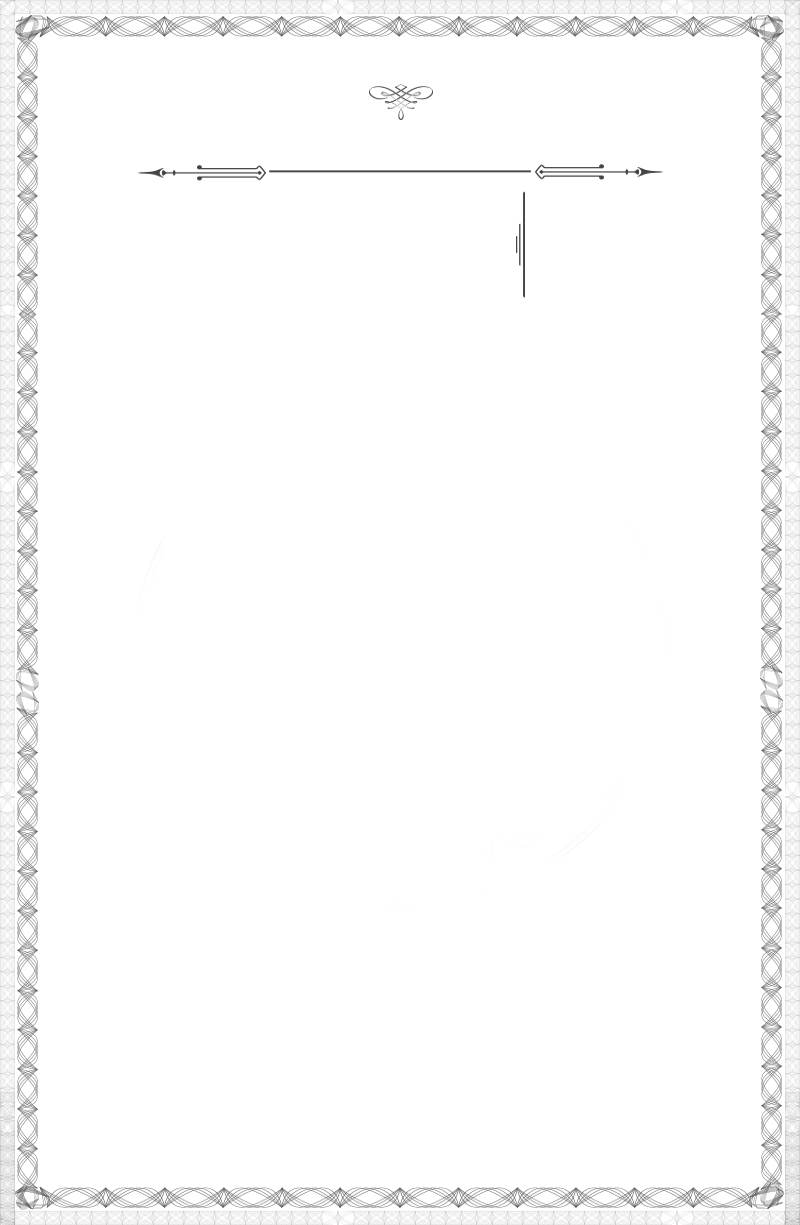
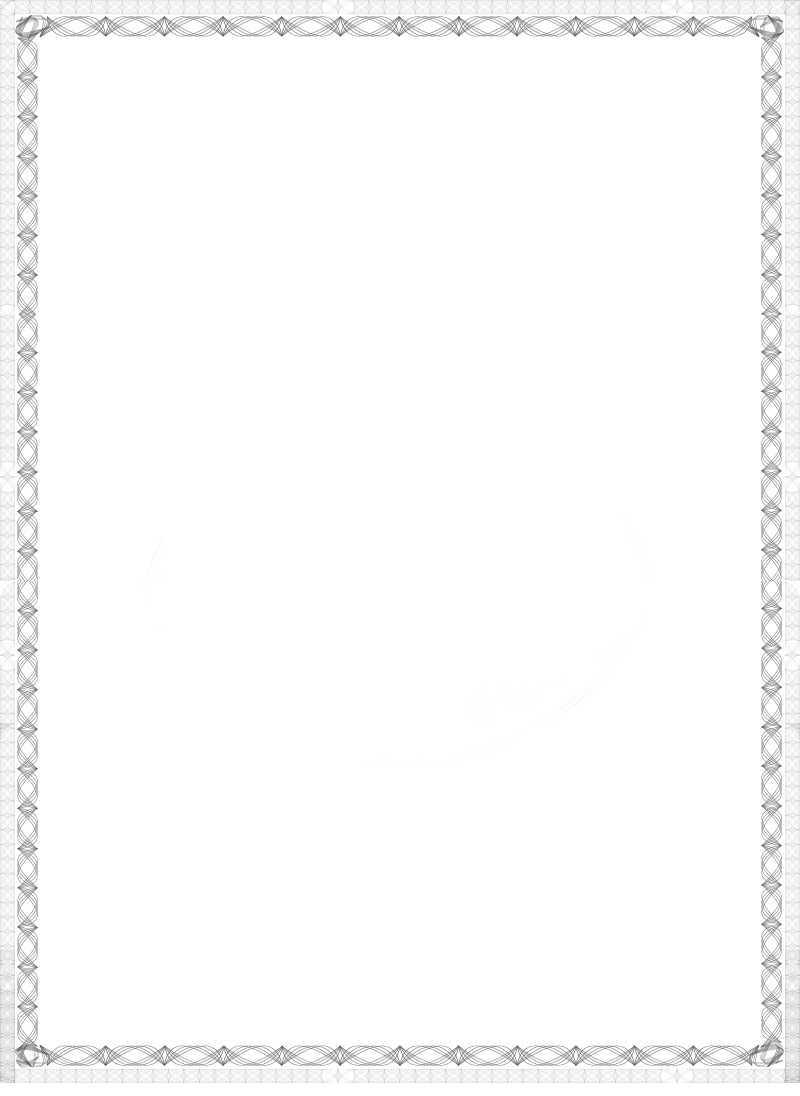
result report modify by Kashif

diff --git a/markssheetcontent/result.css b/markssheetcontent/result.css
@@ -26,16 +26,34 @@ img.result-bg{
     margin:0;
     z-index:1;
 }
-
+.wraperResult hr{
+    background: #02adef;
+    border: 0px;
+    height: 1px;
+}
+.hdr-result h2{
+    font-family: "Times New Roman", Times, serif;
+    margin: 0;
+    font-weight: bold;
+    font-size: 1.5em;
+    border:0px;
+    padding:0px;
+    margin:0px;
+}
+.hdr-result h4{
+    padding:0px;
+    margin:0px;
+}
 
 .resHdr{
     width:660px;
     height:138px;
-    padding:53px 0 0;
+    padding:53px 0 70px  0;
     margin:0 auto;
     /*background:url(../images/reshdr-bg.png) no-repeat center bottom;*/
     position:relative;
     z-index:2;
+    text-align:center;
 }
 .resContainer{
     width:712px;
@@ -50,19 +68,46 @@ img.result-bg{
     margin-top:5px;
     display:block;
 }
-.schoolIdentity{
-    width:428px;
-    padding:0 0 0 10px;
-    margin:0;
+.restopleft .resLogo{
     float:left;
+    margin-top:35px;
+    display:block;
 }
-.hdrText{
+.restopright{
+    float: right;
+    font-size: 14px;
+    width: 50%;
+    text-transform: uppercase;
+}
+.std-information {
+    width: 94%;
+}
+table.std-information .left{
+    text-align:left;
+}
+table.std-information .right{
+    text-align:right;
+}
+.std-information h2{
+    font-family: "Times New Roman", Times, serif;
+    margin: 0;
+    font-weight: bold;
+    font-size: 1.5em;
+    border:0px;
+    padding:0px;
+    margin:0px;
+}
+
+.schoolIdentity{
+    width:100%
+    margin:0;
+}
+
+ .hdrText{
     width:100%;
-    padding:0;
-    margin:-18px 0 0;
-    position:relative;
-    text-align:center;
+    margin:-10px 0 0;
 }
+*/
 .hdrText strong, .hdrText span{
     display:block;
     text-transform:uppercase;
@@ -76,21 +121,16 @@ img.result-bg{
 }
 /*---------------------*/
 .resTophdr{
-    width:100%;
+    width:85%;
     padding:0;
     margin:0 auto;
     overflow:hidden;
 }
 .restopleft{
-    width:445px;
-    padding:0 0 0 5px;
-    margin:0;
-    float:left;
-    border-left:2px solid #afafaf;
-    line-height:16px;
+    width:50%;
     font-size:14px;
     text-transform:uppercase;
-    min-height:112px;
+    float:left;
 }
 .rgttopleft{
     width:210px;
@@ -237,7 +277,7 @@ img.result-bg{
     width:100%;
     position:absolute;
     left:0;
-    bottom:137px;
+    bottom:60px;
 }
 .signatureCont{
     width:85%;
@@ -323,6 +363,13 @@ img.result-bg{
     .table_title{background:initial}
     .tabulation{ -webkit-print-color-adjust:exact; }
 	body.scms-result-print{ background-color:#fff}
-	.resHdrTabu{ margin-top:250px; page-break-after:always}
+	.resHdrTabu{ margin-top:250px; page-break-after:alway60
+.btn-print {display:none;}
+.wraperResult{
+    page-break-before: avoid;
+    width:95%;
+    height:95%;
+    zoom: 90%    }
+@page {size: A4 landscape; }
 
 }

diff --git a/resources/views/app/stdgradesheet.blade.php b/resources/views/app/stdgradesheet.blade.php
@@ -83,27 +83,32 @@
     <div class="resContainer">
         <div class="resTophdr">
             <div class="restopleft">
-                <div><b>{{$student->firstName}} {{$student->middleName}} {{$student->lastName}}</b></div>
-                <div><span>FATHER'S NAME</span><i>: </i><em>{{$student->fatherName}}</em></div>
-                <div><span>CLASS</span><i>: </i><em>{{$student->class}}</em></div>
-                <div><span>GROUP</span><i>: </i><em>{{$student->group}}</em></div>
-                <div><span>SECTION</span><i>: </i><em>{{$student->section_name}}</em></div>
-                <div><span>ROLL NO</span><i>: </i><em>{{$student->rollNo}}</em></div>
-               <!-- <div><span>MOTHER'S NAME</span><i>: </i><em>{{$student->motherName}}</em></div>
-                <div><span>STUDENT ID</span><i>: </i><em>{{$student->regiNo}}</em></div>
-                <div><span>DATE OF BIRTH</span><i>: </i><em>{{$student->dob}}</em></div>
-                -->
-                <!--<div><span>NEW CLASS ROLL :  </span><em>02</em></div>-->
-                <!--<div><span>SHIFT</span><i>: </i><em>{{$student->shift}}</em></div>
-               -->
-                <!--<div><span>BOARD</span><i>: </i><em>KHULNA</em></div>
-            -->
+            				<img src="{{url('/public/images/'.$student->photo)}}" alt="" class="resLogo">
             </div><!-- end of restopleft -->
 
             <div class="restopleft rgttopleft">
-               
-
                 <div><span>GPA</span><i>: </i><em>{{$meritdata->point}}</em></div>
+                <table class="std-information">
+                	<tr>
+                		<td colspan="2">{{$student->firstName}} {{$student->middleName}} {{$student->lastName}}</td>
+                		<td>FATHER'S NAME :</td>
+                		<td>CLASS : </td>
+                		<td>SECTION : </td>
+                		<td>ROLL NO</td>
+                		<td>GRADE</td>
+                		<td>POSITION</td>
+                		<td>GPA</td>
+                	</tr>
+                	<tr>
+                		<td>{{$student->fatherName}}</td>
+                		<td>{{$student->class}}</td>
+                		<td>{{$student->section_name}}</td>
+                		<td>{{$student->rollNo}}</td>
+                		<td>{{$meritdata->grade}}</td>
+                		<td>{{$meritdata->position}}TH</td>
+                		<td>{{$meritdata->point}}</td>
+                	</tr>
+                </table>
 
                 <div><span>GRADE</span><i>: </i><em>{{$meritdata->grade}}</em></div>
                 <div><span>MERIT POSITION</span><i>: </i><em>{{$meritdata->position}}TH</em></div>
@@ -463,3 +468,4 @@
    </script>
 </body><!-- end of fromwrapper-->
 </html>
+

diff --git a/app/Http/Controllers/gradesheetController.php b/app/Http/Controllers/gradesheetController.php
@@ -386,12 +386,12 @@ class gradesheetController extends BaseController {
 		$student =	DB::table('Student')
 		 ->join('Class', 'Student.class', '=', 'Class.code')
 		 ->join('section','Student.section','=','section.id')
-		 ->select( 'Student.regiNo','Student.rollNo','Student.dob', 'Student.firstName','Student.middleName','Student.lastName','Student.fatherName','Student.motherName', 'Student.group','Student.shift','Student.class as classcode','Class.Name as class','Student.section','Student.session','Student.extraActivity','section.name as section_name')
+		 ->select( 'Student.photo','Student.regiNo','Student.rollNo','Student.dob', 'Student.firstName','Student.middleName','Student.lastName','Student.fatherName','Student.motherName', 'Student.group','Student.shift','Student.class as classcode','Class.Name as class','Student.section','Student.session','Student.extraActivity','section.name as section_name')
 		 ->where('Student.regiNo','=',$regiNo)
 		 ->where('Student.class','=',$class)
 		 ->where('Student.isActive', '=', 'Yes');
 		 //->first();
-        //echo "<pre>";print_r($student->first());exit;
+       // echo "<pre>";print_r($student->first());exit;
 		if($student->count()>0) {
            $student = $student->first();
            $section = $student->section;
@@ -889,7 +889,7 @@ class gradesheetController extends BaseController {
 		$student   =	DB::table('Student')
 		 ->join('Class', 'Student.class', '=', 'Class.code')
 		 ->join('section','Student.section','=','section.id')
-		 ->select('Student.regiNo','Student.rollNo','Student.dob', 'Student.firstName','Student.middleName','Student.lastName','Student.fatherName','Student.motherName', 'Student.group','Student.shift','Student.class as classcode','Class.Name as class','Student.section','Student.session','Student.extraActivity','section.name as section_name')
+		 ->select('Student.photo','Student.regiNo','Student.rollNo','Student.dob', 'Student.firstName','Student.middleName','Student.lastName','Student.fatherName','Student.motherName', 'Student.group','Student.shift','Student.class as classcode','Class.Name as class','Student.section','Student.session','Student.extraActivity','section.name as section_name')
 		 ->where('Student.regiNo','=',$regiNo)
 		 ->where('Student.class', '=',$class)
 		 ->where('Student.isActive', '=', 'Yes');

diff --git a/resources/views/app/classCreate.blade.php b/resources/views/app/classCreate.blade.php
@@ -31,7 +31,7 @@
                      <!-- <label for="name">Level</label>-->
                       <div class="input-group">
                           <span class="input-group-addon"><i class="glyphicon glyphicon-info-sign blue"></i></span>
-                          <input type="number" min="-2" max="10" class="form-control" required name="code" placeholder="One=1,Six=6,Ten=10 etc">
+                          <input type="number" min="-2" max="12" class="form-control" required name="code" placeholder="One=1,Six=6,Ten=10 etc">
                           
                          <?php /* <select class="form-control"  name="code" required >
                           <option value="">---Select Level---</option>
@@ -48,7 +48,7 @@
                         <label for="name">Description</label>
                         <div class="input-group">
                             <span class="input-group-addon"><i class="glyphicon glyphicon-info-sign blue"></i></span>
-                            <textarea type="text" class="form-control" required name="description" placeholder="Class Description"></textarea>
+                            <textarea type="text" class="form-control" name="description" placeholder="Class Description"></textarea>
                         </div>
                     </div>
                     <div class="clearfix"></div>

diff --git a/resources/views/app/sectionCreate.blade.php b/resources/views/app/sectionCreate.blade.php
@@ -23,7 +23,7 @@
                         <label for="name">Section Name</label>
                         <div class="input-group">
                             <span class="input-group-addon"><i class="glyphicon glyphicon-info-sign blue"></i></span>
-                            <input type="text" class="form-control" autofocus required name="name" placeholder="Class Name">
+                            <input type="text" class="form-control" autofocus required name="name" placeholder="Section Name">
                         </div>
                     </div>
                     
@@ -64,7 +64,7 @@
                         <label for="name">Description</label>
                         <div class="input-group">
                             <span class="input-group-addon"><i class="glyphicon glyphicon-info-sign blue"></i></span>
-                            <textarea type="text" class="form-control" required name="description" placeholder="Class Description"></textarea>
+                            <textarea type="text" class="form-control"  name="description" placeholder="Class Description"></textarea>
                         </div>
                     </div>
                     <div class="clearfix"></div>

diff --git a/resources/views/app/gradeSheet.blade.php b/resources/views/app/gradeSheet.blade.php
@@ -326,3 +326,4 @@ function getexam()
 };
     </script>
 @stop
+
